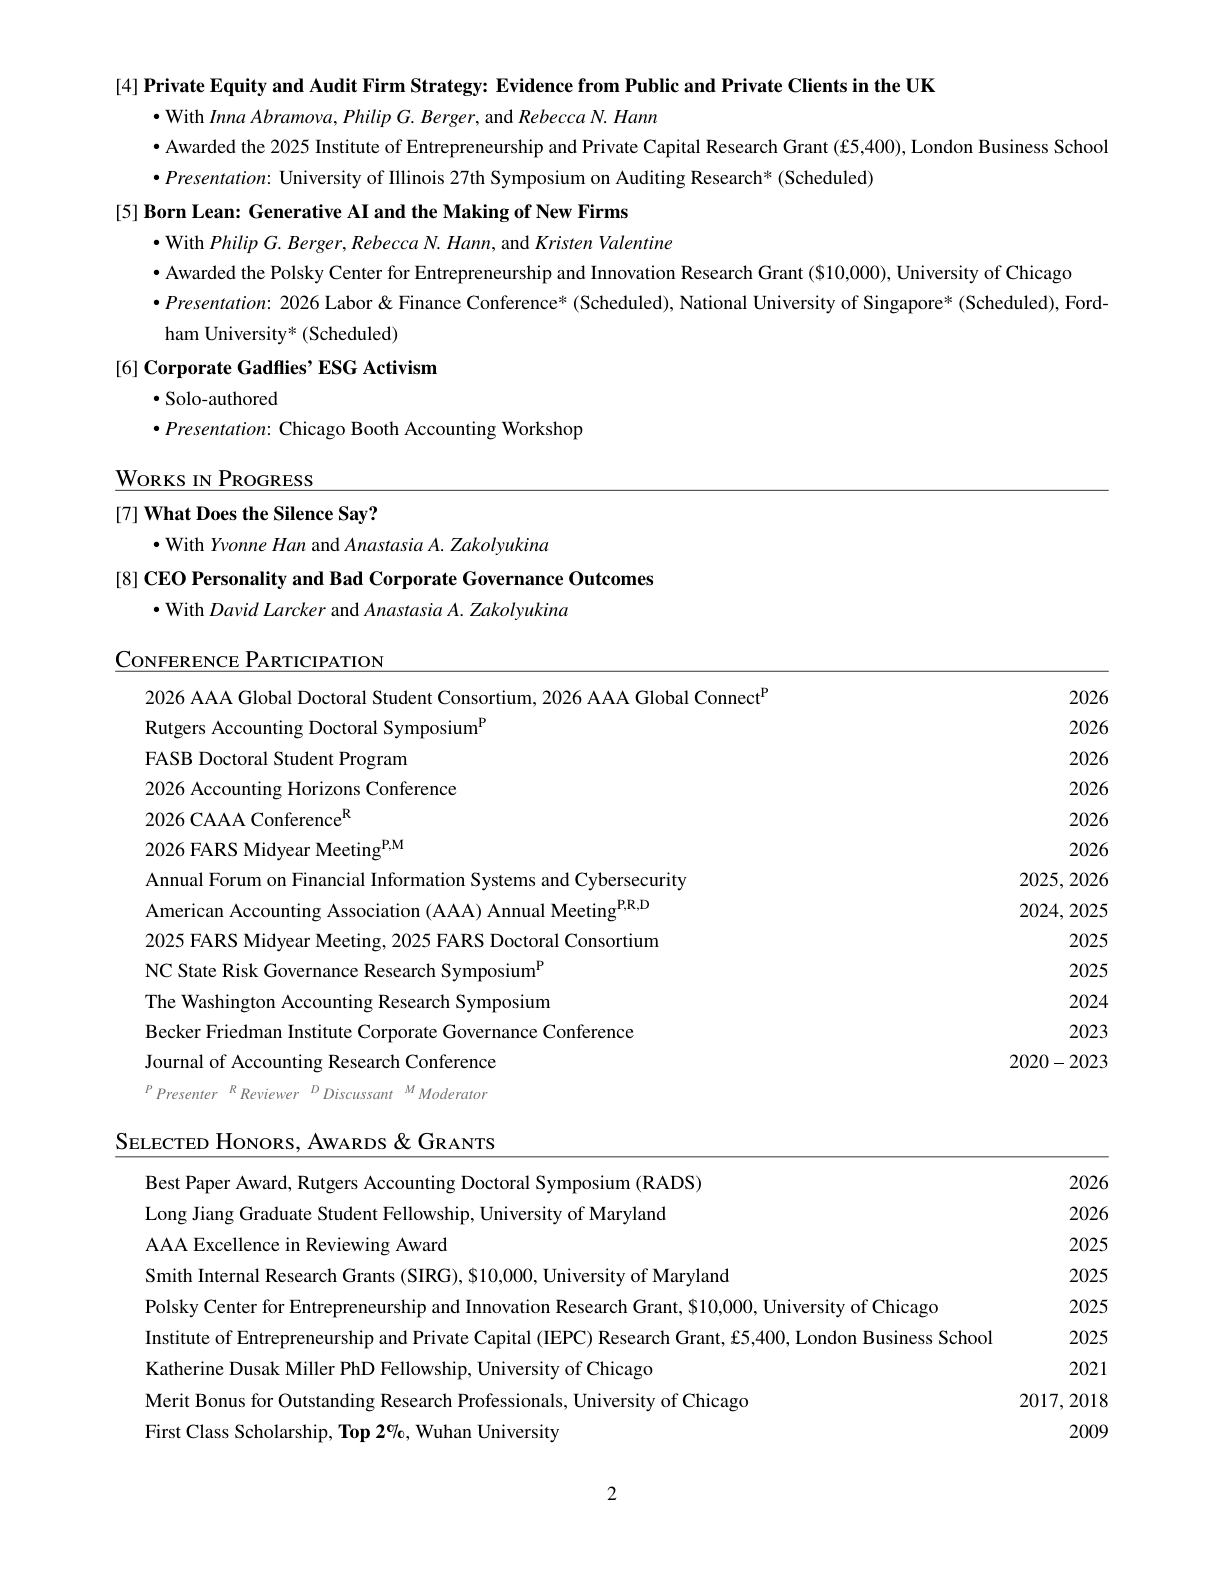
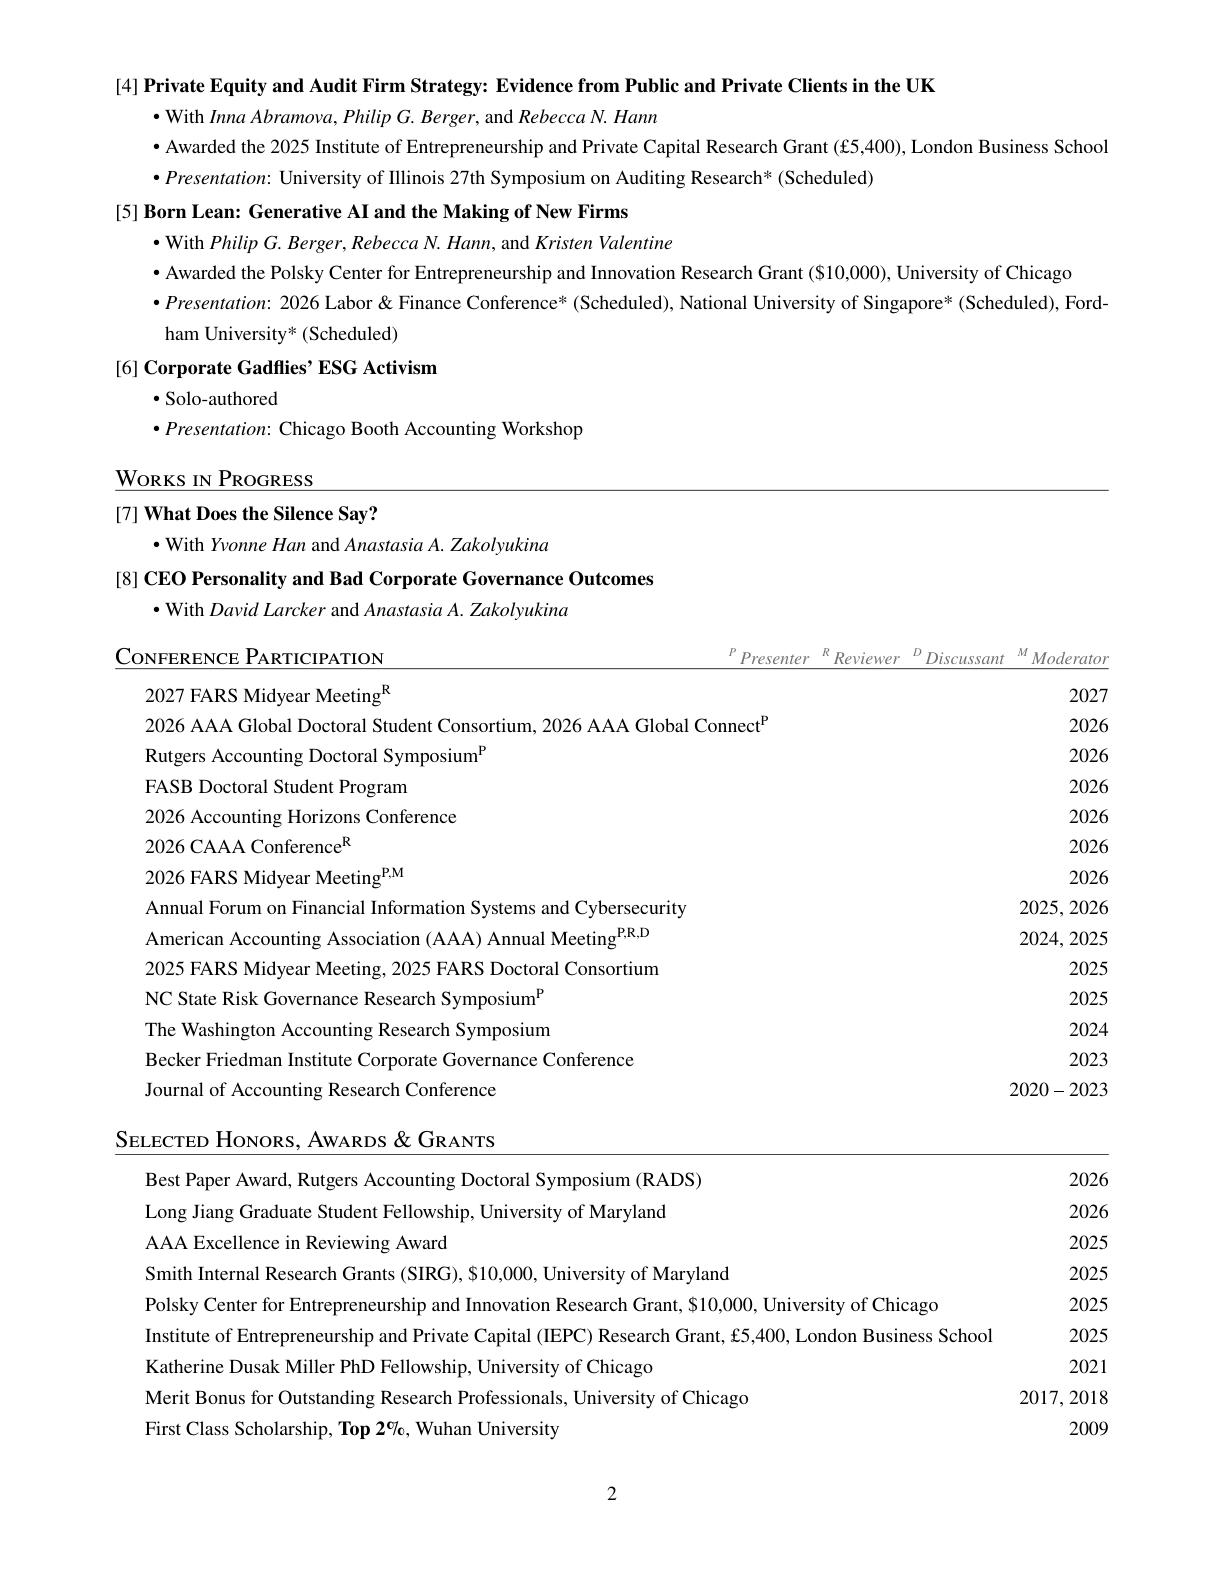
CV: add 2027 FARS Midyear Meeting (reviewer); move role legend onto the section heading
Claude-Session: https://claude.ai/code/session_01TxYnifwLiQJiBei7SGK1Wa

Changed region(s): [[0.0931, 0.4021, 0.9003, 0.928], [0.8382, 0.7424, 0.9003, 0.928]]

diff --git a/cv/index.html b/cv/index.html
@@ -1,6 +1,6 @@
 <!doctype html>
 <!-- This site was created with Hugo Blox. https://hugoblox.com -->
-<!-- Last Published: September 4, 2026 --><html lang="en-us" dir="ltr"
+<!-- Last Published: September 18, 2026 --><html lang="en-us" dir="ltr"
       data-wc-theme-default="light">
   
 <head>
@@ -485,7 +485,7 @@
       
         
           <div class="cv-page">
-            <img src="/media/cv/page-01.png?v=47bdd4064b" alt="Curriculum vitae page 1" loading="lazy">
+            <img src="/media/cv/page-01.png?v=900765cc7d" alt="Curriculum vitae page 1" loading="lazy">
             
               
                 
@@ -514,7 +514,7 @@
       
         
           <div class="cv-page">
-            <img src="/media/cv/page-02.png?v=47bdd4064b" alt="Curriculum vitae page 2" loading="lazy">
+            <img src="/media/cv/page-02.png?v=900765cc7d" alt="Curriculum vitae page 2" loading="lazy">
             
               
                 
@@ -525,7 +525,7 @@
       
         
           <div class="cv-page">
-            <img src="/media/cv/page-03.png?v=47bdd4064b" alt="Curriculum vitae page 3" loading="lazy">
+            <img src="/media/cv/page-03.png?v=900765cc7d" alt="Curriculum vitae page 3" loading="lazy">
             
               
                 

diff --git a/404.html b/404.html
@@ -1,6 +1,6 @@
 <!doctype html>
 <!-- This site was created with Hugo Blox. https://hugoblox.com -->
-<!-- Last Published: September 4, 2026 --><html lang="en-us" dir="ltr"
+<!-- Last Published: September 18, 2026 --><html lang="en-us" dir="ltr"
       data-wc-theme-default="light">
   
 <head>

diff --git a/categories/index.html b/categories/index.html
@@ -1,6 +1,6 @@
 <!doctype html>
 <!-- This site was created with Hugo Blox. https://hugoblox.com -->
-<!-- Last Published: September 4, 2026 --><html lang="en-us" dir="ltr"
+<!-- Last Published: September 18, 2026 --><html lang="en-us" dir="ltr"
       data-wc-theme-default="light">
   
 <head>

diff --git a/index.html b/index.html
@@ -1,6 +1,6 @@
 <!doctype html>
 <!-- This site was created with Hugo Blox. https://hugoblox.com -->
-<!-- Last Published: September 4, 2026 --><html lang="en-us" dir="ltr"
+<!-- Last Published: September 18, 2026 --><html lang="en-us" dir="ltr"
       data-wc-theme-default="light">
   
 <head>

diff --git a/research/index.html b/research/index.html
@@ -1,6 +1,6 @@
 <!doctype html>
 <!-- This site was created with Hugo Blox. https://hugoblox.com -->
-<!-- Last Published: September 4, 2026 --><html lang="en-us" dir="ltr"
+<!-- Last Published: September 18, 2026 --><html lang="en-us" dir="ltr"
       data-wc-theme-default="light">
   
 <head>

diff --git a/software/index.html b/software/index.html
@@ -1,6 +1,6 @@
 <!doctype html>
 <!-- This site was created with Hugo Blox. https://hugoblox.com -->
-<!-- Last Published: September 4, 2026 --><html lang="en-us" dir="ltr"
+<!-- Last Published: September 18, 2026 --><html lang="en-us" dir="ltr"
       data-wc-theme-default="light">
   
 <head>

diff --git a/tags/index.html b/tags/index.html
@@ -1,6 +1,6 @@
 <!doctype html>
 <!-- This site was created with Hugo Blox. https://hugoblox.com -->
-<!-- Last Published: September 4, 2026 --><html lang="en-us" dir="ltr"
+<!-- Last Published: September 18, 2026 --><html lang="en-us" dir="ltr"
       data-wc-theme-default="light">
   
 <head>

diff --git a/teaching/index.html b/teaching/index.html
@@ -1,6 +1,6 @@
 <!doctype html>
 <!-- This site was created with Hugo Blox. https://hugoblox.com -->
-<!-- Last Published: September 4, 2026 --><html lang="en-us" dir="ltr"
+<!-- Last Published: September 18, 2026 --><html lang="en-us" dir="ltr"
       data-wc-theme-default="light">
   
 <head>
